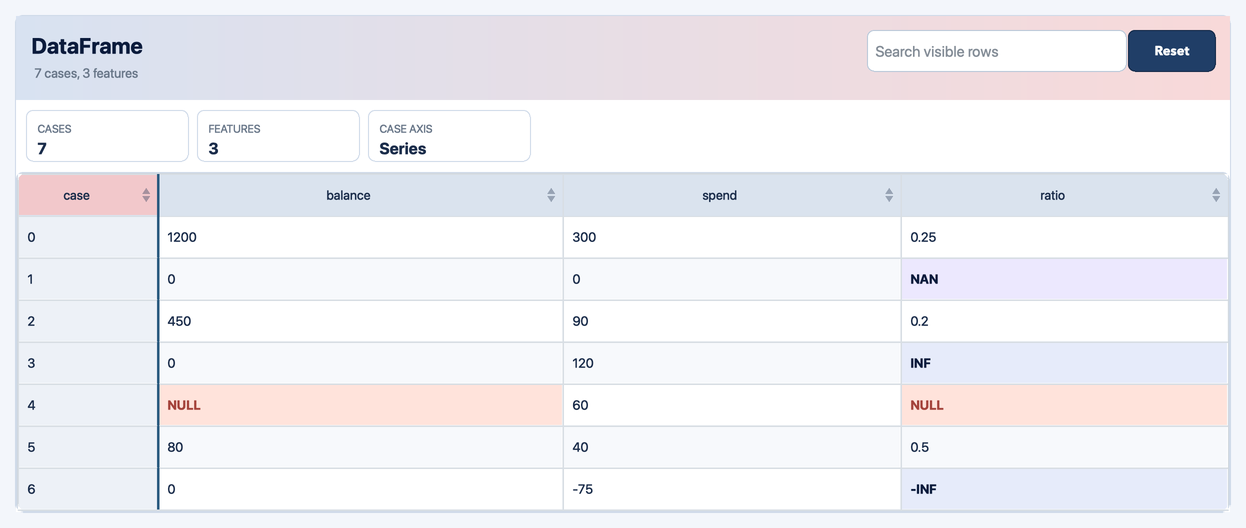
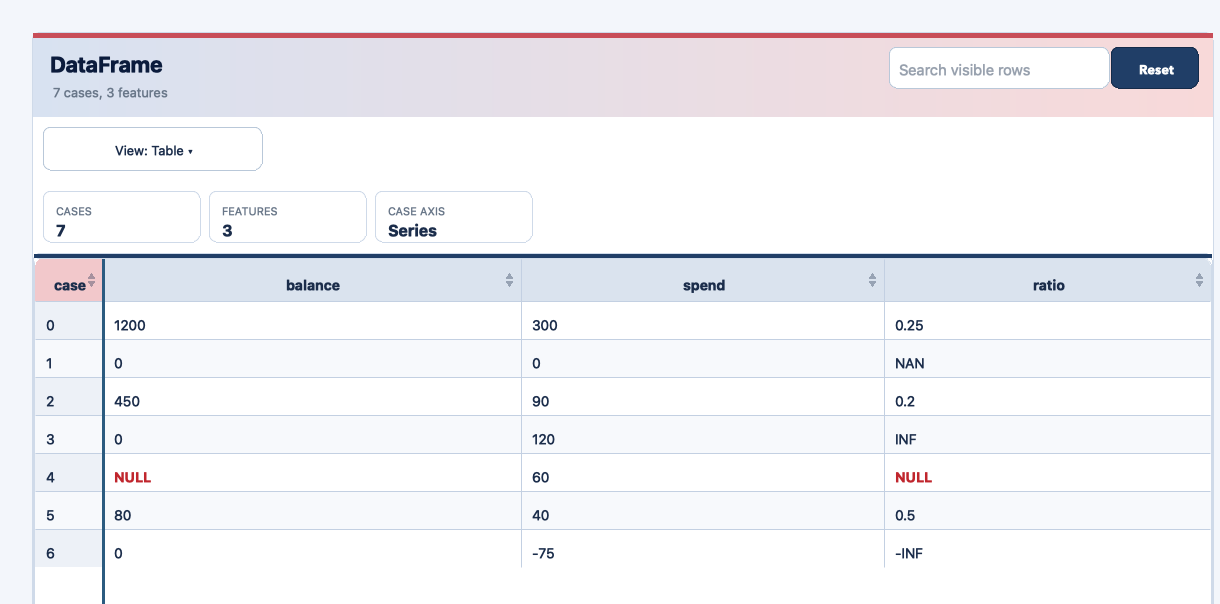
PlussView docs: filter, visit, themes, catalog pictures rendered by PlussView; save_png export; catalog_page factored out

diff --git a/PlussMic/src/table/display/Display.cpp b/PlussMic/src/table/display/Display.cpp
@@ -35,6 +35,10 @@
 #include "CodeM/core/ScalarType.h"
 #include "pluss/tils/view/html_window.h"
 #include "pluss/tils/view/table_order.h"
+#include "pluss/tils/view/window/export.h"
+#include "pluss/tils/view/window/html_document.h"
+#include "pluss/tils/view/window/html_layout.h"
+#include "pluss/tils/view/window/renderer.h"
 #include "pluss/tils/view/window/text_layout.h"
 #include "table/Atlas.h"
 #include "table/DataFrame.h"
@@ -4000,6 +4004,52 @@ std::string frame_page_(const DataFrame& frame, StatsViews& views, const std::sh
                             : pluss::tils::OutputEngine::format("{} cases, {} features", frame.ncases(), frame.nfeatures());
   return render_html_table_(frame, document_title_("DataFrame", options), subtitle, options, views, lazy,
                             /*virtual_model=*/true);
+}
+
+namespace {
+bool save_page_png_(const std::string& html, const pluss::view::VirtualTableModel* model, const std::string& path,
+                    const int width, const int height) {
+  namespace window = pluss::view::window;
+  const auto document = window::parse_html_document(html);
+  window::HtmlRenderConfig config{};
+  config.virtual_table_model = model;
+  std::vector<std::int64_t> rows;
+  if (model != nullptr && (model->filtering() || model->row_window().kind != pluss::view::RowWindow::Kind::All)) {
+    for (std::int64_t row = 0; row < model->row_count(); ++row) {
+      if (model->row_allowed(row)) {
+        rows.push_back(row);
+      }
+    }
+    const auto [first, last] = pluss::view::window_bounds(model->row_window(), static_cast<std::int64_t>(rows.size()));
+    rows = std::vector<std::int64_t>(rows.begin() + first, rows.begin() + last);
+    config.virtual_row_order = &rows;
+  }
+  const window::SizeI size{width, height};
+  const auto scene = window::build_html_document_scene(document, size, config);
+  window::PixelCanvas canvas(size);
+  canvas.clear(window::Color::rgba(0, 0, 0, 255));
+  window::SoftwareRenderer renderer;
+  std::vector<window::RenderEvent> events;
+  renderer.render(scene, canvas, events);
+  return window::save_canvas_png(canvas, path);
+}
+}  // namespace
+
+bool save_png(const ModelPage& page, const std::string& path, const DisplayOptions& options, const int width,
+              const int height) {
+  if (page.on_options) {
+    page.on_options(options);
+  }
+  return save_page_png_(render_html_model(page, options), page.model.get(), path, width, height);
+}
+
+bool save_png(const DataFrame& frame, const std::string& path, const DisplayOptions& options, const int width,
+              const int height) {
+  StatsViews views(frame);
+  const auto model = std::make_shared<DataFrameVirtualTableModel>(frame);
+  model->apply(options);
+  const auto html = frame_page_(frame, views, model, options, /*lazy=*/false);
+  return save_page_png_(html, model.get(), path, width, height);
 }
 
 void show(const DataFrame& frame, const DisplayOptions& options) {

diff --git a/PlussMic/src/kindle/io/CatalogIO.cpp b/PlussMic/src/kindle/io/CatalogIO.cpp
@@ -148,22 +148,22 @@ std::string Catalog::to_json() const {
 
 void Catalog::show(std::ostream& os) const { display::print(os, *this); }
 
-void Catalog::show() const {
-  PLUSS_CHECK(defined(), "Catalog::show: catalog undefined");
+pluss::table::display::ModelPage catalog_page(const Catalog& catalog) {
+  PLUSS_CHECK(catalog.defined(), "Catalog::show: catalog undefined");
   // The keys side by side as a ragged grid: each column is as long as its own stream and nothing is padded.
-  auto model = std::make_shared<display::CatalogGridModel>(*this);
+  auto model = std::make_shared<display::CatalogGridModel>(catalog);
   pluss::table::display::ModelPage page;
   page.title = "Catalog";
   const bool ragged = model->longest() != model->shortest();
-  page.subtitle = ragged ? std::to_string(nkeys()) + " keys, " + std::to_string(model->shortest()) + " to " +
+  page.subtitle = ragged ? std::to_string(catalog.nkeys()) + " keys, " + std::to_string(model->shortest()) + " to " +
                                std::to_string(model->longest()) + " entries"
-                         : std::to_string(nkeys()) + " keys, " + std::to_string(model->longest()) + " entries";
-  page.cards = {{"Keys", std::to_string(nkeys())},
+                         : std::to_string(catalog.nkeys()) + " keys, " + std::to_string(model->longest()) + " entries";
+  page.cards = {{"Keys", std::to_string(catalog.nkeys())},
                 {"Longest", std::to_string(model->longest())},
                 {"Shortest", std::to_string(model->shortest())}};
   page.model = model;
-  for (const auto& name : keys()) {
-    page.streams.emplace_back(name, std::make_shared<const pluss::table::Shelf>(this->keys(name).to_shelf()));
+  for (const auto& name : catalog.keys()) {
+    page.streams.emplace_back(name, std::make_shared<const pluss::table::Shelf>(catalog.keys(name).to_shelf()));
   }
   page.offer_align = ragged;
   page.on_options = [model](const pluss::table::display::DisplayOptions& options) {
@@ -172,6 +172,11 @@ void Catalog::show() const {
     model->set_window(pluss::table::display::row_window_for(options));
     model->set_number_format(options.number_format);
   };
+  return page;
+}
+
+void Catalog::show() const {
+  const auto page = catalog_page(*this);
   // A catalog is not a DataFrame, and opens in Ember so it looks like it unless a default theme was set.
   pluss::table::display::DisplayOptions options;
   if (pluss::table::display::default_theme() == pluss::table::display::DisplayTheme::Default) {

diff --git a/PlussMic/src/table/display/Display.h b/PlussMic/src/table/display/Display.h
@@ -144,6 +144,10 @@ void print(std::ostream& os, const Atlas& atlas, const DisplayOptions& options =
 void print_info(std::ostream& os, const DataFrame& frame, const DisplayOptions& options = {});
 void show(const Shelf& shelf, const DisplayOptions& options = {});
 void show(const DataFrame& frame, const DisplayOptions& options = {});
+
+// Paints the window's table page, as PlussView shows it, into a PNG file of the given size.
+bool save_png(const DataFrame& frame, const std::string& path, const DisplayOptions& options = {}, int width = 1246,
+              int height = 520);
 void show(const Atlas& atlas, const DisplayOptions& options = {});
 void show_info(const DataFrame& frame, const DisplayOptions& options = {});
 // A page for any model-painted table that is not a DataFrame (a ragged catalog): the title, the cards above the
@@ -158,6 +162,9 @@ struct ModelPage {
   std::function<void(const DisplayOptions&)> on_options;
   bool offer_align{false};  // View > Align (head, tail), for keys of different lengths
 };
+// The same for a model page (a ragged catalog): the page's own filter, visit and alignment come from the options.
+bool save_png(const ModelPage& page, const std::string& path, const DisplayOptions& options = {}, int width = 1300,
+              int height = 520);
 // A number's text written as View > Format asks for (the stored value does not change).
 std::string format_number(const std::string& text, NumberFormat format);
 // The row window View > Visit asks for, as the viewer's own type.

diff --git a/PlussMic/src/kindle/display/GridModel.h b/PlussMic/src/kindle/display/GridModel.h
@@ -66,3 +66,12 @@ class CatalogGridModel final : public pluss::view::VirtualTableModel {
 };
 
 }  // namespace pluss::kindle::display
+
+namespace pluss::kindle {
+
+class Catalog;
+
+// The page Catalog::show() opens: the ragged grid, its cards and the view tabs.
+pluss::table::display::ModelPage catalog_page(const Catalog& catalog);
+
+}  // namespace pluss::kindle

diff --git a/PlussTils/docs/sphinx/manual/view.md b/PlussTils/docs/sphinx/manual/view.md
@@ -35,7 +35,7 @@ The same call exists on `DataFrame`, `Atlas`, and on plots (`Studio` and the `fl
 
 ## The table window
 
-The window opens on the table. Above it are the frame's title, a search box that filters the visible rows with a Reset button, and three counters: cases, features and the case axis. The number that is not a number in the last row of `revenue` shows as `NAN` in a violet cell. The next section explains the colours.
+The window opens on the table. Above it are the frame's title, a search box that filters the visible rows with a Reset button, and three counters: cases, features and the case axis. The number that is not a number in the last row of `revenue` shows as `NAN`. The next section explains how missing values, NaN and infinity differ.
 
 ![The table window for the sales frame](assets/pv_table.png)
 
@@ -43,17 +43,17 @@ The toolbar above the table has three menus: **Theme**, **View** and **Save As**
 
 ### Missing, NaN and infinity
 
-The window keeps three different things apart, each with its own background. Only a missing value is red-ish; the other two are values, so they are tinted without any alarm.
+The window keeps three different things apart. Only a missing value is marked: its text is bold and red. The other two are values, so they are drawn like any other value and nothing is painted behind them.
 
-| Cell | Meaning | Background |
+| Cell | Meaning | Look |
 |---|---|---|
-| `NULL` | no value was recorded | red-ish |
-| `NAN` | a value that is not a number, such as `0 / 0` | violet |
-| `INF`, `-INF` | an infinite value, such as `120 / 0` | blue |
+| `NULL` | no value was recorded | bold red text |
+| `NAN` | a value that is not a number, such as `0 / 0` | like any value |
+| `INF`, `-INF` | an infinite value, such as `120 / 0` | like any value |
 
-This frame divides `spend` by `balance`. The fifth balance was never recorded, so its ratio is `NULL`. Rows 1, 3 and 6 divide by a zero balance and give NaN, infinity and negative infinity:
+This frame divides `spend` by `balance`. The fifth balance was never recorded, so its ratio is `NULL`. Rows 1, 3 and 6 divide by a zero balance and give NaN, infinity and negative infinity. To find them in a table of any size, use **View → Filter**, described below.
 
-![NULL, NAN, INF and -INF in a table](assets/pv_table_kinds.png)
+![NULL in bold red, NaN and infinity as plain values](assets/pv_table_kinds.png)
 
 The frame is the accounts table from the PlussMic guide to missing values, NaN and infinity, which also explains how to find, drop and fill each kind.
 
@@ -85,6 +85,42 @@ Choose **Outliers**:
 
 ![The Outliers view](assets/pv_view_outliers.png)
 
+### Filter
+
+**View → Filter** keeps only the rows that hold a kind of cell you are looking for.
+
+| Entry | Keeps the rows where some cell is |
+|---|---|
+| Invalid | NULL, NaN or infinite |
+| Null | NULL |
+| NaN | NaN |
+| Inf | infinite, positive or negative |
+
+The decision is made on what each cell is, never on its text, so a name such as `Nancy` is not mistaken for a NaN and the text `NULL` in a text column is not a missing value. The subtitle shows how many rows remain ("3 of 24 cases"). Choose the same entry again, or the Table view, to bring every row back. A filter works the same on a table of five rows and one of five million.
+
+The picture shows the accounts frame under **Invalid**: of its seven rows, rows 1, 3, 4 and 6 hold a NaN, an infinity or a NULL, so those four stay and the subtitle says "4 of 7 cases".
+
+![The accounts frame filtered to Invalid](assets/pv_view_filter.png)
+
+### Visit
+
+**View → Visit** shows one stretch of the table: the first, the middle or the last rows, or a range you type.
+
+| Entry | Shows |
+|---|---|
+| First 10 | the first ten rows |
+| Middle 10 | the ten rows in the middle, counted from the top |
+| Last 10 | the last ten rows |
+| Custom | the rows from one position to another, both included |
+
+When the table has ten rows or fewer, every entry shows all of them. With 11 rows the first ten are rows 1 to 10, and the middle and last ten are both rows 2 to 11. With 12 rows the three differ: 1 to 10, 2 to 11 and 3 to 12. The middle is always counted from the top.
+
+**Custom** asks for two positions. On macOS a small dialog appears; elsewhere a small row of two boxes and an Apply button opens in the middle of the header. Positions start at 0, like the numbers in the case column, and both ends are included: 3 to 8 shows rows 3, 4, 5, 6, 7 and 8. Leave the first box empty for the start and the second for the end. A negative position counts from the end, so -1 is the last row. A range that ends before it begins shows no rows.
+
+![Custom range 2 to 5 on the accounts frame](assets/pv_view_visit.png)
+
+Visit and Filter combine: Visit applies to the rows that the filter kept. Choose the Table view to clear both.
+
 ### Number format
 
 Inside the **View** menu, **Format** changes how the numbers are written: the default, a fixed number of decimals (0 to 4), thousands separators, or scientific notation. The pictures show the Table view with Default, then 1 dp, then Scientific.
@@ -93,19 +129,71 @@ Inside the **View** menu, **Format** changes how the numbers are written: the de
 
 ### Themes
 
-Open the **Theme** menu to restyle the window: Default, Ember, Nardo, Brooklands, Gulf, Obsidian or Indigo. A theme keeps the view and the number format you chose.
+Open the **Theme** menu to restyle the window: Default, Ember, Nardo, Brooklands, Gulf, Obsidian, Indigo, Paperwhite or Sepia. A theme keeps the view and the number format you chose. Paperwhite and Sepia are the pages of an e-reader: thin rules, no row stripes and a dark rule along the top, in white or in warm paper.
 
-![The seven table themes](assets/pv_table_themes.png)
+![The nine table themes](assets/pv_table_themes.png)
 
 ### Sorting and column widths
 
-Each column header has two small stacked triangles. One sorts that column ascending and the other descending. Clicking elsewhere on the header does not sort.
+Each column header has two small stacked triangles. One sorts that column ascending and the other descending. Clicking elsewhere on the header does not sort. Column names are bold. Everything in this section works the same whatever the size of the table: a frame of five rows and one of five million are painted by the same code.
 
 Drag the border between two headers to resize the column to its left, or double-click the border to fit the column to its contents and double-click again to return it. Only that column changes. The last column has no border to drag: it is the table's automatic column, so it takes whatever room the others leave and the table always fills the window. Here the `units` column has been dragged narrower and `revenue` has taken the room:
 
 ![The units column dragged narrower, with revenue taking the room](assets/pv_table_resized.png)
 
 Text that does not fit in its column is cut with an ellipsis. A number that does not fit shows `#` until the column is wide enough.
+
+## The catalog window
+
+A catalog is not a table: its keys can hold streams of different lengths, and a table would have to invent cells to make them equal. `.show()` on a catalog therefore opens a **ragged grid**. The keys sit side by side, each column is exactly as long as its own stream, and nothing is padded.
+
+```cpp
+#include <pluss/pluss.h>
+
+#include <limits>
+
+using namespace pluss::kindle::literals;
+
+int main() {
+    const double nan = std::numeric_limits<double>::quiet_NaN();
+    auto weather = pluss::kindle::Catalog({
+        "accra_temp_c"_k   = pluss::kindle::Stream(pluss::make_series({26.1, 27.2, 27.4, 27.9, 26.6, 27.3, 27.5})),
+        "kumasi_temp_c"_k  = pluss::kindle::Stream(pluss::make_series({25.0, nan, 26.2, 26.8})),
+        "tamale_temp_c"_k  = pluss::kindle::Stream(pluss::make_series({31.0, 30.4}), pluss::make_series(std::vector<bool>{true, false})),
+    });
+    weather.show();
+}
+```
+
+The window shows three columns of seven, four and two entries. Under the short columns nothing is drawn: no cell, no line and no text.
+
+![The weather catalog in the Ember theme](assets/pv_catalog_grid.png)
+
+| What you see | Meaning |
+|---|---|
+| nothing below the end of a column | the stream has no entry there (absent) |
+| `NULL` in bold red | the stream has an entry there and its value is unknown |
+| `NAN` | a value that is not a number |
+| the key and a number in the header (`kumasi_temp_c · 4`) | the key and how many entries it really has |
+| a thin bar under the name | how much of the longest key this one covers |
+
+An absent cell is not a NULL: the NULL filter, the NaN filter and the Validity view ignore it. The left column counts entries.
+
+**View → Align** decides where keys of different lengths sit against each other. **Head** starts every key at the top, which is the default. **Tail** ends every key at the bottom, so the most recent entries of every key line up. The Table view puts the alignment back to Head.
+
+![The same catalog aligned to the tail](assets/pv_catalog_tail.png)
+
+The columns of a ragged catalog are independent, so the headers have no sort arrows. Filter, Visit and Format work as they do on a table, and a catalog opens in the Ember theme so it does not look like a table.
+
+The **View** menu lists the same views as a table, each computed from the streams as they are and never from a padded rectangle:
+
+| View | What it shows |
+|---|---|
+| Summary | One row per numeric key: count, mean, standard deviation, minimum, quartiles and maximum |
+| Correlation | The correlation between numeric keys, over the entries every key has: the first ones under head alignment, the last ones under tail |
+| Validity | Each key's NULLs, NaNs and infinities, and separately the entries it does not have |
+| Outliers | The floor and ceiling each numeric key is expected to stay between, and how many values fall outside |
+| Raggedness | Whether the catalog is ragged, the longest, shortest and spread, the mean length, how many keys are full length, and for each key its entries, absent entries, coverage of the longest key, non-NULL entries and where it sits |
 
 ## The plot window
 

diff --git a/docs/releases/transient.md b/docs/releases/transient.md
@@ -13,7 +13,7 @@ The latest validated development build. It carries no version number and is repl
 - PlussView: dragging or auto-fitting a column changes only that column. The last column is the table's automatic column: it takes whatever room the others leave, so the table always fills the panel, and it has no divider of its own. Past its minimum the table scrolls sideways. `html_table_geometry().slack` switches to a spreadsheet-style blank grid instead (`HtmlTableSlack::Continuation`).
 - PlussView: clicking a column header no longer sorts the table; only the up and down triangles do.
 - PlussView: the last column really is the table's automatic column by default. An earlier build documented this but still ended a resized table with a blank continuation column; `HtmlTableGeometry::slack` now defaults to `HtmlTableSlack::LastColumn`.
-- PlussView: only a missing value (`NULL`) is red-ish. A NaN cell is tinted violet and an infinity blue, with readable text, in small and large tables alike. A long table (over ten thousand rows or 250,000 cells) now takes its header, row stripes, case column and cell tints from the theme's stylesheet, like a short one, instead of fixed colours. Before, they were a solid dark block (the built-in renderer does not read CSS `color-mix`).
+- PlussView: only a missing value (`NULL`) is marked, and only by its text: bold and red, in a red chosen for each theme. NaN and infinity are values and are drawn like any other (the new View → Filter finds them), in small and large tables alike. A long table takes its header, row stripes, case column and divider colours from the theme's stylesheet, like a short one.
 - PlussView: the guide is rewritten around `.show()`, with pictures of the real window: views, number formats, themes, sorting, column widths, the plot window and Save As. The pixel-level canvas, scene and renderer pages are removed from the public reference: PlussView is a window, not a library.
 - New `pluss` command, installed as `bin/pluss`: `pluss run file.cpp` builds a single file against the download and runs it, `pluss new name` starts a project with a CMake preset that points at the download, and `pluss doctor` builds and runs a test program to show what is missing. Programs share one precompiled header, and a program that has not changed runs without calling the build tool. Guide: "The pluss command".
 - `pluss::tils::doc` reads the documentation from your program: `doc(value)`, `doc(value, "member")`, `doc("Series::sum")` print the page in the terminal, `doc_link` prints a file your editor's terminal opens and the website address, and `doc_open` opens it in the editor. The documentation (about 13 MB, packed) is bundled in the download under `share/pluss/docs`, so it works offline. Guide: "Reading the documentation from your program".
@@ -30,6 +30,12 @@ The latest validated development build. It carries no version number and is repl
 - PlussView: saved PNG and PDF tables leave out the sort arrows.
 - PlussView: dragging or double-clicking a column border is much more responsive. Only the column that moved is measured again, instead of the whole table.
 - PlussView: the Save As button is sized from its own title, so the label is never clipped.
+- PlussView: a DataFrame in a window is painted from the frame by one renderer at every size, so a table of five rows and one of five million have the same header controls (sort arrows, draggable dividers with a highlight, the label column too), scrollbars, themes and number formats. Before, large tables had a separate renderer that lacked some of them. Column widths follow one rule: each column fits its header and the values read from the frame (headers alone for frames with more than 64 columns), then the table shares the room.
+- PlussView: **View → Filter** (Invalid, Null, NaN, Inf) keeps the rows that hold a kind of cell, decided on what the cell is and never on its text, so a name like `Nancy` is not a NaN. It works on every table size. **View → Visit** shows the first, middle or last ten rows, or a range typed in (Custom, both ends included: 3 to 8 shows rows 3 through 8). The Table view clears both.
+- PlussView: new themes Paperwhite and Sepia, the pages of an e-reader. The header fade now blends straight from one theme colour to the other instead of passing through white, column names are bold in every table, and the Default theme's column dividers are visible.
+- PlussView: wrapping, cutting off and sizing text now measure with the width the text is painted at, so a row of items is sized for the text it holds and header names are no longer cut short.
+- `Catalog::show()` opens a ragged grid instead of one card per key: the keys side by side, each column as long as its own stream and nothing padded. A cell past the end of a stream is absent, which is not NULL. Headers carry each key's length and a bar showing how much of the longest key it covers; **View → Align** puts keys by their head or tail; the View menu has Summary, Correlation, Validity, Outliers and Raggedness views computed from the streams as they are. The window opens in Ember and has the Format menu. Guide: "The catalog window" in the PlussView manual.
+- Notebook preview: `PLUSS_NOTEBOOK_LOG` writes what the kernel and the compile engine say to each other to a file, and the smoke test prints it when a check fails. The notebook is still being fixed on Linux.
 
 ## Names that changed
 
@@ -41,6 +47,7 @@ Free functions now live in the lowercase namespaces, and the types hold only met
 - `pluss::duration::range` is now `pluss::duration::range`.
 - `pluss::note::undefined()` is now `pluss::note::undefined()`.
 - `pluss::table::examples()` and `example(name)` are now `pluss::loader::datastores()` and `datastore(name)`.
+- `Catalog::nrows()`, `minrows()` and `maxrows()` are now `nentries()`, `minentries()` and `maxentries()`, and `Catalog::cloc` is now `Catalog::eloc`. A catalog's rows are its entries. `Registry::cloc` is now `Registry::sloc`: a registry's rows are its states.
 
 ## Compatibility
 

diff --git a/PlussMic/docs/sphinx/api/catalog/show.md b/PlussMic/docs/sphinx/api/catalog/show.md
@@ -97,7 +97,7 @@ std::cout << "captured " << captured.str().size() << " characters";
 captured 761 characters
 ```
 
-Example 3. Open the catalog in the viewer, one card per key.
+Example 3. Open the catalog in the viewer as a ragged grid.
 
 ```cpp
 auto ct = pluss::kindle::Catalog({
